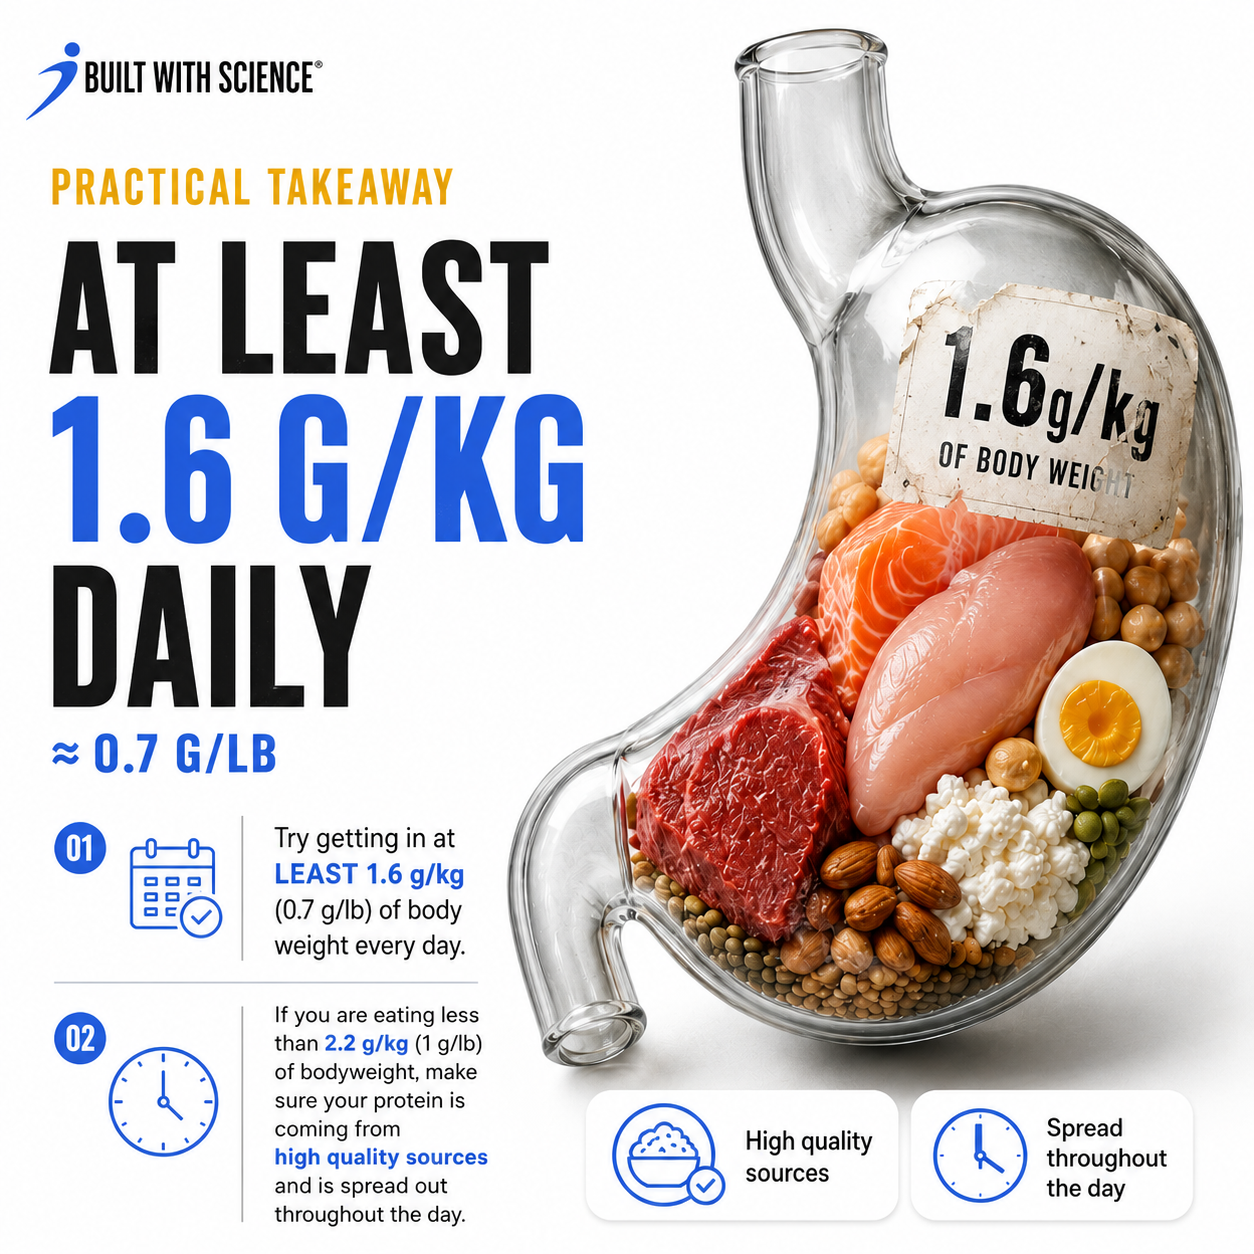
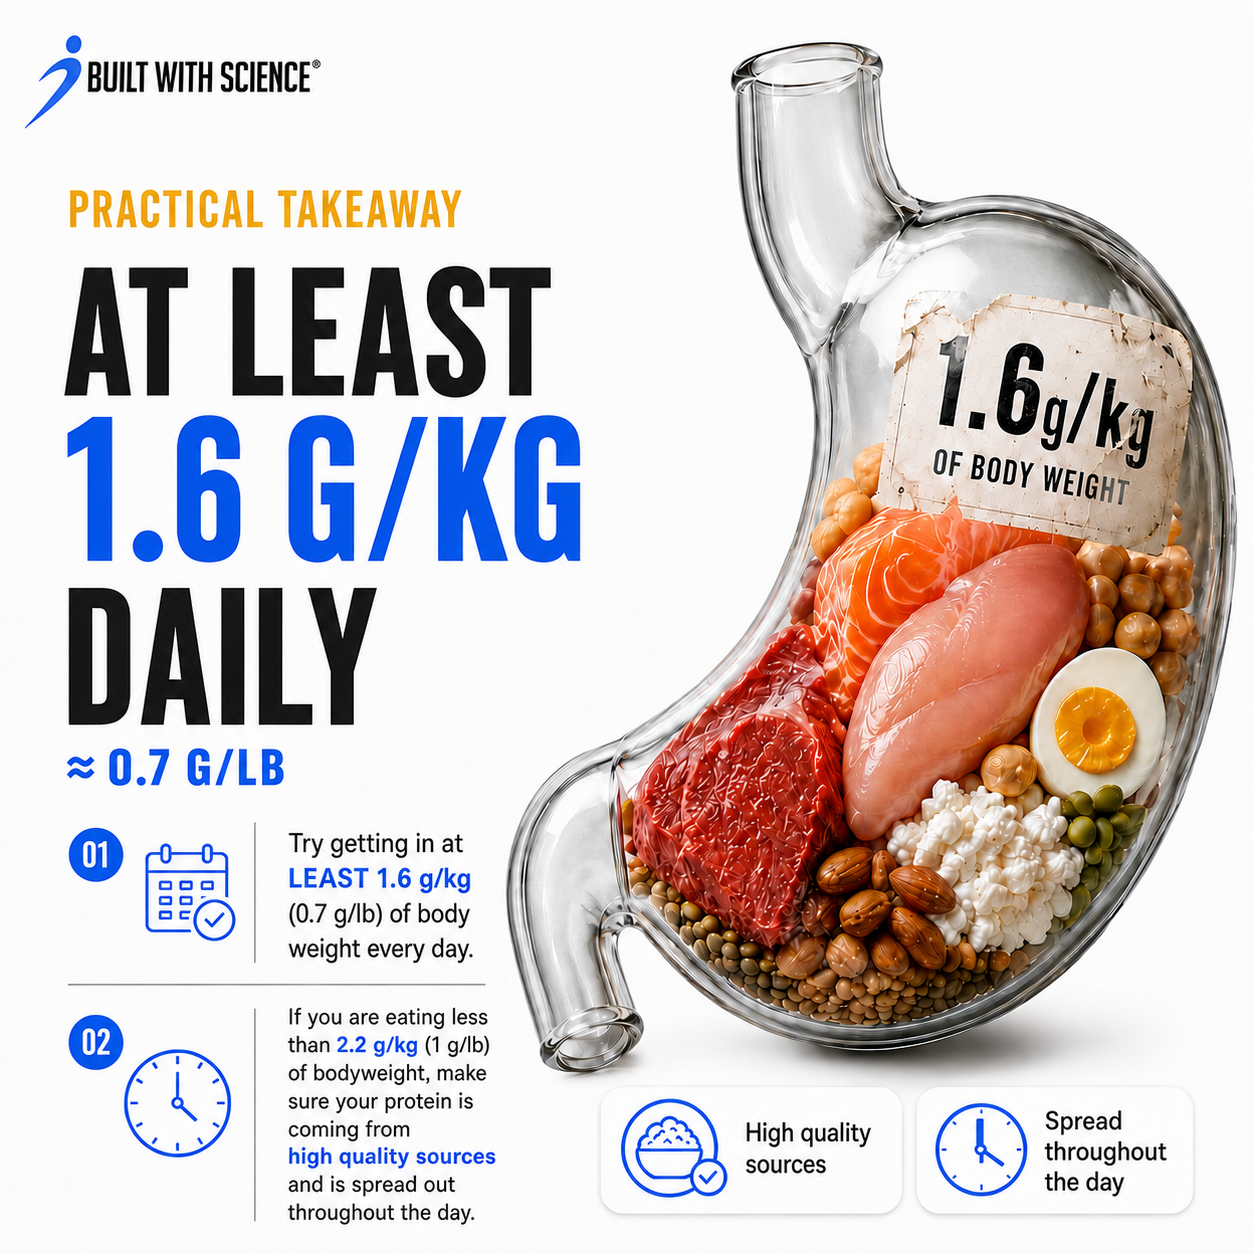
Replace carousel with new image set

diff --git a/script.js b/script.js
@@ -5,11 +5,11 @@ const carouselPost = {
   hashtags: "#BuiltWithScience #Protein #Hypertrophy #NutritionScience",
   slides: [
     {
-      image: "./assets/slide-1.png",
+      image: "./assets/slide-1.jpg",
       alt: "How much protein to maximize muscle growth, Built With Science hook slide",
     },
     {
-      image: "./assets/slide-2.png",
+      image: "./assets/slide-2.jpg",
       alt: "1.6 grams per kilogram is enough, Built With Science research insight slide",
     },
     {